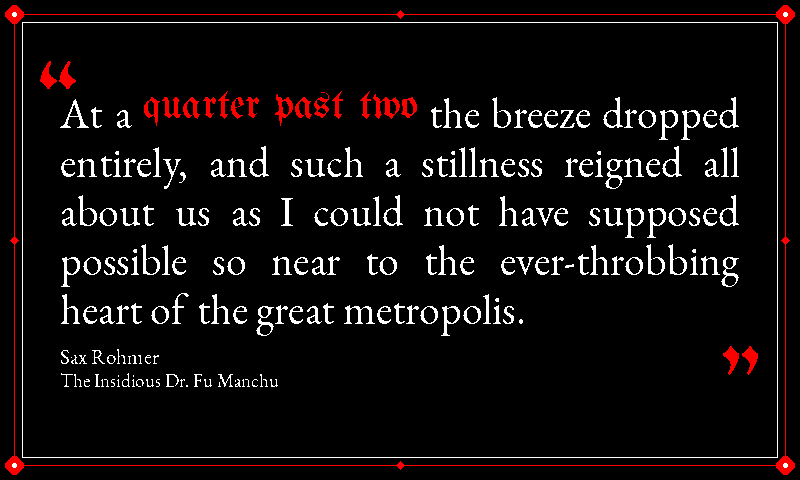
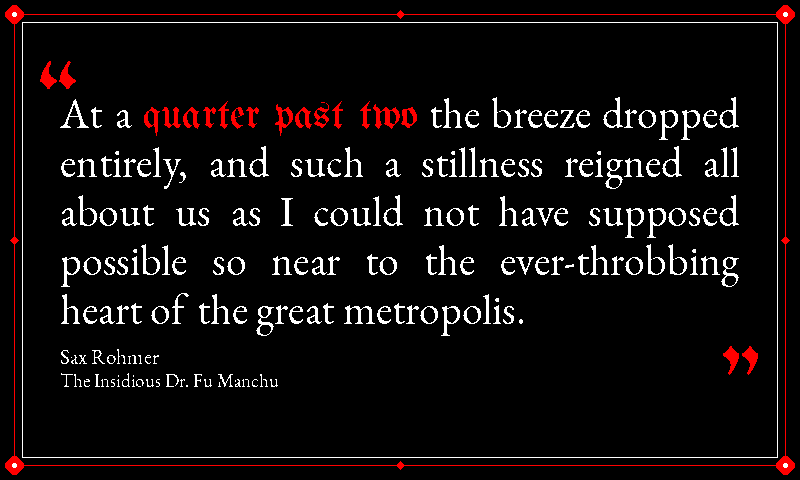
Align matched-phrase baseline when bold/regular fonts differ
PIL's default text anchor is "la" (left, ascender top), so calling
``draw.text((x, y), ...)`` interprets ``y`` as the top of each font's
ASCENT band — not a shared baseline. When ``quote_font`` and
``quote_font_bold`` come from the same family their ascents are
identical and the per-chunk position is consistent. When they come
from different families, drawing every chunk at the same ``y`` shifts
each font by its own ascent, leaving one of them visually floating
relative to the other.

Today this only affects the ``gothic`` theme — at body font size 40,
EB Garamond Regular reports ascent 41 vs UnifrakturMaguntia's 32, so
the matched phrase rendered ~9px above the body baseline.

Fix: add ``_font_ascent(font)`` (guarded against the bitmap fallback's
missing ``getmetrics``) and shift each chunk's draw point by
``body_ascent − chunk_ascent`` so all chunks share a baseline. For
themes where regular and bold come from the same family the offset
collapses to 0 and the rendered output is byte-identical (the
default + dark golden-image fixtures pass unchanged).

Changed region(s): [[0.1562, 0.1875, 0.5312, 0.2812]]

diff --git a/render_quote.py b/render_quote.py
@@ -901,6 +901,27 @@ def resolve_display_match(text: str, match_text: str) -> str:
     return normalized_match
 
 
+def _font_ascent(font) -> int:
+    """Return the font's ascent in pixels, or 0 when unavailable.
+
+    Used by the per-chunk baseline-alignment offset in the body draw
+    loop: PIL's default text anchor is ``"la"`` (left, ascender top),
+    so when a line mixes two fonts whose ascents differ (e.g. gothic
+    pairs EB Garamond body with UnifrakturMaguntia bold), drawing
+    both chunks at the same ``y`` leaves the bold phrase floating
+    above the body baseline by ``body_ascent − bold_ascent`` pixels.
+    The bitmap fallback (``ImageFont.load_default()`` from a
+    misconfigured install) doesn't expose ``getmetrics`` reliably; in
+    that case we return 0 so every chunk gets the same offset and the
+    baseline misalignment falls back to today's behaviour rather than
+    crashing.
+    """
+    try:
+        return font.getmetrics()[0]
+    except (AttributeError, OSError):
+        return 0
+
+
 def tokenize_quote(text: str, match_text: str) -> list[tuple[str, bool]]:
     normalized_match = resolve_display_match(text, match_text)
     if not normalized_match:
@@ -2023,10 +2044,23 @@ def render(time_str: str, quote_row: dict, width: int, height: int, mode: str = 
 
         x = (width - layout["max_width"]) // 2
         space_idx = 0
+        # PIL's default text anchor is "la" (left, ascender top), so
+        # ``y`` is interpreted as the top of each font's ASCENT band,
+        # not a shared baseline. When ``quote_font`` and
+        # ``quote_font_bold`` come from the same family their ascents
+        # are identical and the per-chunk shift is zero; when they
+        # come from different families (e.g. gothic = EB Garamond
+        # body + UnifrakturMaguntia bold, ascent 41 vs 32 at body
+        # font_size), drawing both at the same ``y`` leaves the bold
+        # phrase visually floating above the body baseline. Shift each
+        # chunk's draw point by ``body_ascent − chunk_ascent`` so all
+        # chunks share a baseline regardless of metric drift.
+        body_ascent = _font_ascent(quote_font)
         for chunk, is_bold in drawable:
             font = quote_font_bold if is_bold else quote_font
             fill = colors["accent"] if is_bold else colors["text"]
-            draw_text(draw, (x, y), chunk, font=font, fill=fill)
+            chunk_y = y + (body_ascent - _font_ascent(font))
+            draw_text(draw, (x, chunk_y), chunk, font=font, fill=fill)
             bbox = draw.textbbox((0, 0), chunk, font=font)
             x += bbox[2] - bbox[0]
             if distribute and chunk == " ":
